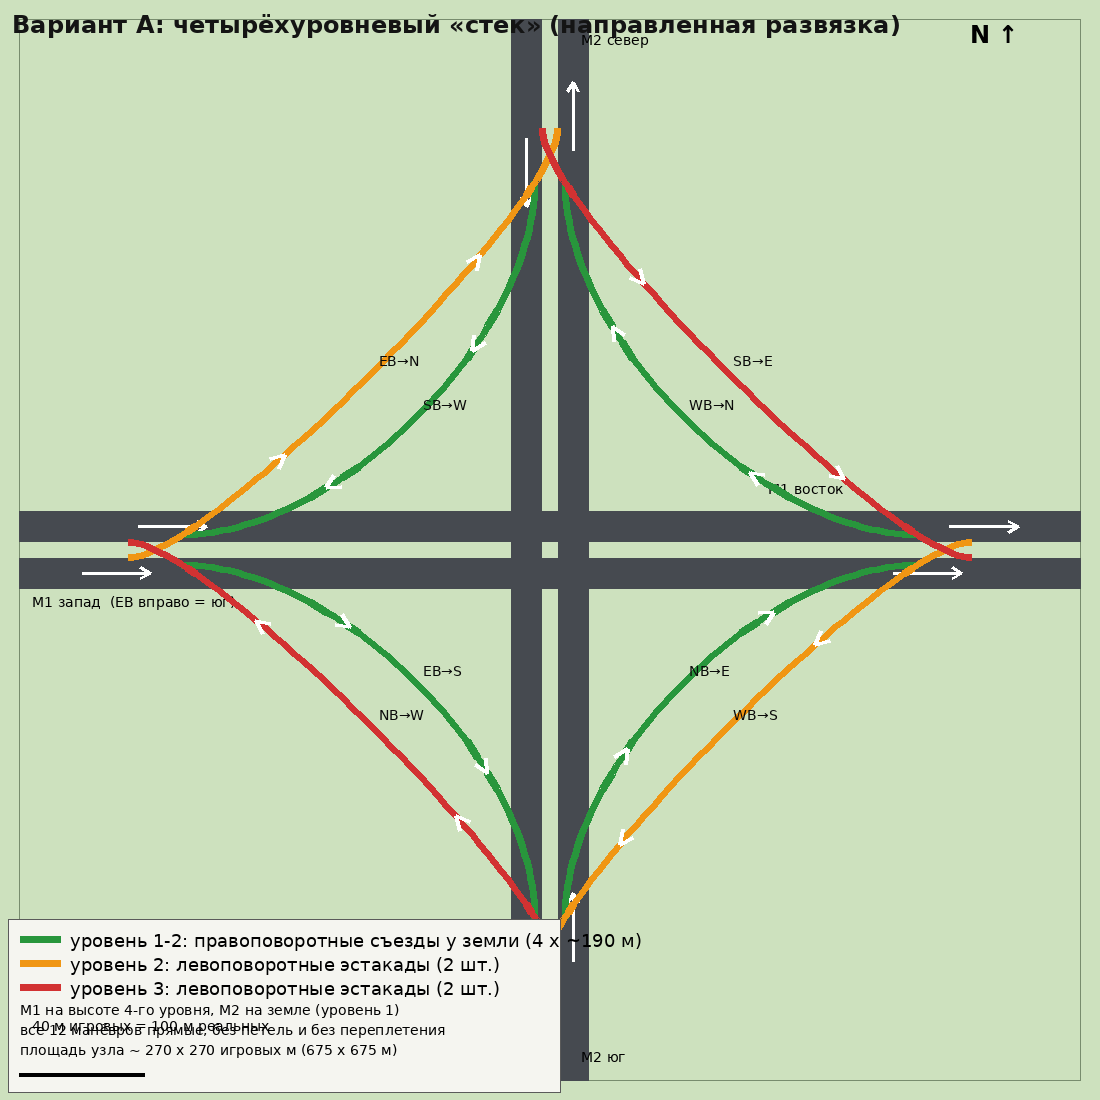
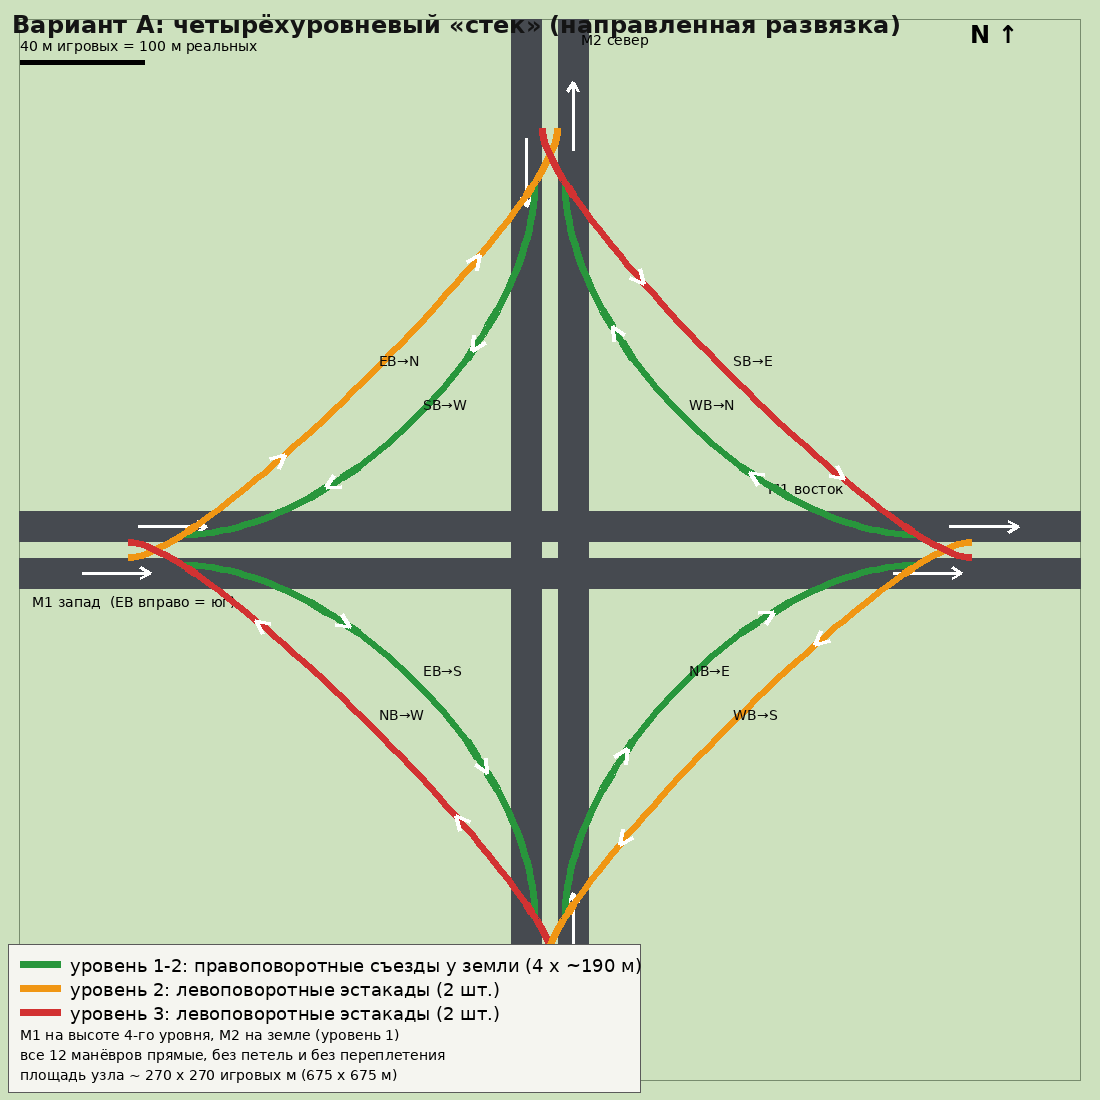
plan C interchange fixes (WIP): agent iteration
Claude-Session: https://claude.ai/code/session_0158CyMv5byZ12aRQuFjCsFK

Changed region(s): [[0.0, 0.8345, 0.5873, 1.0], [0.0, 0.0309, 0.2164, 0.0618]]

diff --git a/tools/sketch-interchanges-v161.py b/tools/sketch-interchanges-v161.py
@@ -43,11 +43,11 @@ def ramp(d, pl, level, label=None, lab_at=0.5, arrows=(0.35, 0.7)):
         i = int(len(pts) * lab_at); d.text((pts[i][0] + 6, pts[i][1] - 20), label, font=FS, fill=(10, 10, 10))
     return length(pl)
 def legend(d, items, lines):
-    y = H - 175
-    d.rectangle([8, y - 6, 560, H - 8], fill=(245, 245, 240), outline=(90, 90, 90))
+    y = H - 150
+    d.rectangle([8, y - 6, 640, H - 8], fill=(245, 245, 240), outline=(90, 90, 90))
     for k, (lv, t) in enumerate(items): d.line([(20, y + 14 + 24 * k), (60, y + 14 + 24 * k)], fill=COL[lv], width=7); d.text((70, y + 5 + 24 * k), t, font=F, fill=(0, 0, 0))
     for k, t in enumerate(lines): d.text((20, y + 5 + 24 * len(items) + 20 * k), t, font=FS, fill=(0, 0, 0))
-    d.line([P(-170, 168), P(-170 + 40, 168)], fill=(0, 0, 0), width=4); d.text(P(-166, 150), '40 м игровых = 100 м реальных', font=FS, fill=(0, 0, 0))
+    d.line([(20, 62), (20 + 40 * S * 0.78, 62)], fill=(0, 0, 0), width=5); d.text((20, 38), '40 м игровых = 100 м реальных', font=FS, fill=(0, 0, 0))
     d.text((W - 130, 20), 'N ↑', font=FB, fill=(0, 0, 0))
 results = {}
 # ---------- right turns: four slip ramps, the same in every variant (exit on the right, enter on the right)
@@ -81,22 +81,17 @@ for lab, pl in turb: tot += ramp(d, pl, 1, lab, 0.5)
 results['B'] = tot
 legend(d, [(0, 'уровень 1: правоповоротные съезды у земли'), (1, 'уровень 2: 4 спиральных левоповоротных съезда (R 28-45 м)')], ['M1 поверх (уровень 3), M2 на земле; каждый спиральный съезд пересекает два потока', 'все 12 манёвров прямые, переплетения нет', 'площадь узла ~ 220 x 220 игровых м (550 x 550 м)'])
 im.save(OUT + '/interchange-B-turbine.png')
-# ---------- Variant C: HYBRID (two loops in NE / SW, two semi-direct flyovers in NW / SE), three levels
-im, d = base('Вариант C: гибрид (2 петли + 2 полупрямые эстакады)')
-tot = slips(d, 0)
-# loops (left turns, exit right, 270 deg clockwise): NB->W in the NE... we keep the right-hand cloverleaf rule: exit right AFTER the crossing, loop clockwise.
-# SB (west half) -> E: exit right (west) after the crossing, loop clockwise through W, N... in the SW quadrant: centre (-42, 42) r 20
-loop1 = bez((-4.9, 30), (-4.9, 50), (-12, 64), (-24, 64)) + arc((-24, 44), 20, 90, 180 + 90 - 270 + 360 - 0, 1)[0:1]
-l1 = arc((-24, 44), 20, 90, 360, 90); loop_sw = [(-4.9, 20)] + [(-4.9, 44)] + [(p[0], p[1]) for p in l1][:] 
-# simple explicit loops: SB->E leaves SB at z 20, goes south then clockwise 270: south -> west -> north -> east, joining EB from the south (right) at x 30
-sw = bez((-4.9, 20), (-4.9, 36), (-8, 44), (-24, 64)) + arc((-24, 44), 20, 90, 360, 60)[1:] + bez((-4, 44), (6, 44), (16, 18), (30, 4.9))[1:]
-ne = [(-x, -z) for x, z in sw]   # NB->W: the same turned by 180 degrees (exit right after the crossing, clockwise loop in the NE quadrant)
-tot += ramp(d, sw, 0, 'SB→E (петля R 20)', 0.45); tot += ramp(d, ne, 0, 'NB→W (петля R 20)', 0.45)
-# semi-direct flyovers: EB->N (exit right at x -125, runs round the SE outside, crosses M2 on the second level, joins NB from the right) and WB->S
-nw = bez((-125, 4.9), (-70, 4.9), (-30, 30), (70, 40)) + bez((70, 40), (100, 44), (112, 10), (112, -40))[1:] + bez((112, -40), (112, -60), (60, -50), (4.9, -118))[1:]
-se = [(-x, -z) for x, z in nw]
-tot += ramp(d, nw, 1, 'EB→N (полупрямая)', 0.4); tot += ramp(d, se, 1, 'WB→S (полупрямая)', 0.4)
+# ---------- Variant C: HYBRID (two loops in SW / NE, two left-exit flyovers in NW / SE), three levels
+im, d = base('Вариант C: гибрид (2 петли + 2 эстакады-диагонали)')
+tot = slips(d, 0, 12)   # right turns on the outside
+# loop SB->E (SW quadrant): exit right (west side of M2) after the crossing, 270 degrees clockwise, joins EB from the south (right); loop NB->W = the same rotated by 180 degrees
+r = 20; C = (-4.9 - r, 56)
+loop = [(-4.9, 30), (-4.9, 56)] + arc(C, r, 0, 270, 60)[1:] + bez((C[0], C[1] - r), (C[0] + 20, C[1] - r), (8, 9), (34, 7.4))[1:]
+loop2 = [(-x, -z) for x, z in loop]
+tot += ramp(d, loop, 0, 'SB→E петля R 20', 0.55); tot += ramp(d, loop2, 0, 'NB→W петля R 20', 0.55)
+tot += ramp(d, bez((-135, 2.5), (-45, 2.5), (2.5, -45), (2.5, -135)), 1, 'EB→N эстакада (левый выход)', 0.62)
+tot += ramp(d, bez((135, -2.5), (45, -2.5), (-2.5, 45), (-2.5, 135)), 1, 'WB→S эстакада (левый выход)', 0.62)
 results['C'] = tot
-legend(d, [(0, 'уровень 1: 4 съезда вправо + 2 петли R 20 (у земли)'), (1, 'уровень 2: 2 полупрямые эстакады длиной ~ 260-300 м')], ['M1 на уровне 3 над M2; петли и эстакады по 2 диагональным квадрантам', 'переплетение только на двух петлях (SW, NE), 2 из 4 левых манёвров прямые', 'площадь узла ~ 260 x 260 игровых м (650 x 650 м)'])
+legend(d, [(0, 'уровень 1: 4 съезда вправо (снаружи) + 2 петли R 20'), (1, 'уровень 2: 2 левоповоротные эстакады-диагонали')], ['M1 на уровне 3 над M2; петли и эстакады в диагональных квадрантах', 'переплетение только на двух петлях (SW, NE); 2 из 4 левых манёвров прямые', 'площадь узла ~ 270 x 270 игровых м (675 x 675 м)'])
 im.save(OUT + '/interchange-C-hybrid.png')
 print({k: round(v) for k, v in results.items()})
